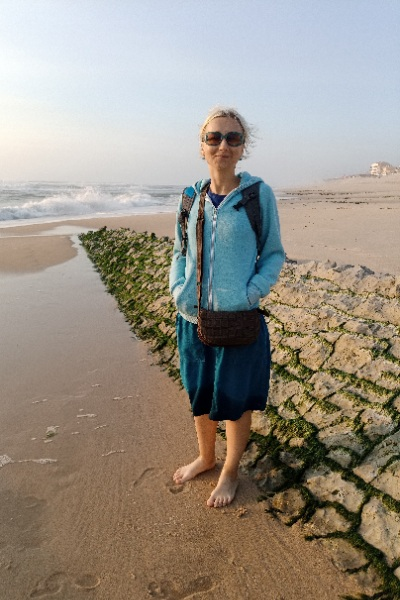
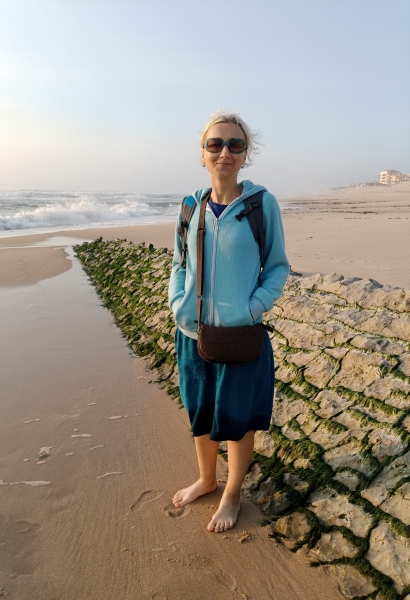
personalization aboutme photo & main color

diff --git a/index.html b/index.html
@@ -157,8 +157,7 @@
                     <div class="title title_fz36 about__subtitle">My name is Olena</div>
                     <div class="divider"></div>
                     <p class="about__text">I'm a motivated and detail-oriented aspiring front-end / full-stack developer seeking an internship or entry-level position to
-                    gain hands-on experience in real-world development environments.<br><br>
-                    Eager to contribute reliability, strong learning ability, and growing technical skills while building a solid foundation in software development.</p>
+                    gain hands-on experience in real-world development environments.</p>
                 </div>
                 <div class="about__skills">
                     <div class="about__skills-item">
@@ -169,12 +168,12 @@
                             <div class="title title_fz14">Front-End & Web Development</div>
                             <div class="about__skills-text">
                                 <ul>
-                                    <li>Building responsive and adaptive web layouts</li>
+                                    <li>Responsive and adaptive web layouts</li>
                                     <li>CSS Flexbox, CSS Grid</li>
                                     <li>CSS methodologies (BEM, Atomic Design principles)</li>
                                     <li>Basic JavaScript for interactivity</li>
-                                    <li>Working with SVG and web graphics</li>
-                                    <li>Understanding of multi-page websites and CMS integration principles</li>
+                                    <li>SVG and web graphics</li>
+                                    <li>Multi-page websites and CMS integration principles</li>
                                     <li>Website performance basics and W3C validation practices</li>
                                     <li>Accessibility fundamentals (a11y)</li>
                                 </ul>
@@ -190,9 +189,9 @@
                             <div class="about__skills-text">
                                 <ul>
                                     <li>HTML, CSS, JavaScript (practical foundation)</li>
-                                    <li>C/C++, Python, Java (basic knowledge)</li>
+                                    <li>C/C++, Python, Java (basics)</li>
                                     <li>Git & GitHub (version control, basic workflows)</li>
-                                    <li>Figma, Zeplin (working with design mockups)</li>
+                                    <li>Figma, Zeplin (design mockups)</li>
                                     <li>Vite (basic workflow automation)</li>
                                     <li>Command line basics</li>
                                     <li>SQL (fundamentals)</li>
@@ -210,7 +209,7 @@
                                 <ul>
                                     <li>Consistent and motivated learner</li>
                                     <li>Attention to detail</li>
-                                    <li>Clear and effective communication</li>
+                                    <li>Clear communication</li>
                                     <li>Discipline and responsibility</li>
                                     <li>Ability to work both independently and in a team</li>
                                 </ul>
@@ -225,9 +224,9 @@
                             <div class="title title_fz14">Languages</div>
                             <div class="about__skills-text">
                                 <ul>
-                                    <li>Ukrainian, Russian — Native</li>
-                                    <li>English — Fluent</li>
-                                    <li>Portuguese — B1 (Independent user)</li>
+                                    <li>Ukrainian, Russian — native</li>
+                                    <li>English — fluent</li>
+                                    <li>Portuguese — B1 (independent user)</li>
                                 </ul>
                             </div>
                         </div>

diff --git a/src/sass/blocks/about.scss b/src/sass/blocks/about.scss
@@ -6,8 +6,10 @@
     &__wrapper {
         display: grid;
         grid-template-columns: 400px 670px;
-        grid-template-rows: minmax(245px, auto) minmax(255px, auto);
-        grid-auto-rows: minmax(245px, auto);
+        // grid-template-rows: minmax(245px, auto) minmax(255px, auto);
+        grid-template-rows: minmax(200px, auto) minmax(255px, auto);
+        // grid-auto-rows: minmax(245px, auto);
+        grid-auto-rows: minmax(200px, auto);
         column-gap: 70px;
         row-gap: 20px;
     }
@@ -44,7 +46,8 @@
 
     &__skills {
         display: grid;
-        grid-template: repeat(2, minmax(115px, auto)) / repeat(2, 260px);
+        // grid-template: repeat(2, minmax(115px, auto)) / repeat(2, 260px);
+        grid-template: repeat(2, minmax(115px, auto)) / repeat(2, minmax(260px, auto));
         grid-auto-rows: 1fr;
         column-gap: 50px;
         row-gap: 20px;

diff --git a/src/sass/blocks/contacts.scss b/src/sass/blocks/contacts.scss
@@ -111,15 +111,19 @@
     }
 
     &__btn {
-        border: none;
+        // border: none;
+        border: solid $main-color 2px;
         font-weight: bold;
         font-size: 14px;
-        line-height: 21px;
+        line-height: 14px;
 
         &:hover {
-            color: #000;
+            // color: #000;
+            color: $main-color-dark;
+            background-color: transparent;
+            border: solid $main-color-dark 2px;
             text-decoration: none;
-            box-shadow: 2px 8px 8px 0 rgba(0, 0, 0, 0.15);
+            // box-shadow: 2px 8px 8px 0 rgba(0, 0, 0, 0.15);
         }
 
         &:active {

diff --git a/src/sass/blocks/promo.scss b/src/sass/blocks/promo.scss
@@ -31,11 +31,15 @@
         color: #000;
         font-weight: 700;
         padding: 12px 25px;
+        border: solid transparent 2px;
 
         &:hover {
-            color: #000;
+            // color: #000;
+            color: $main-color-dark;
+            background-color: transparent;
+            border: solid $main-color-dark 2px;
             text-decoration: none;
-            box-shadow: 2px 8px 8px 0 rgba(0, 0, 0, 0.15);
+            // box-shadow: 2px 8px 8px 0 rgba(0, 0, 0, 0.15);
         }
 
         &:active {

diff --git a/src/sass/blocks/button.scss b/src/sass/blocks/button.scss
@@ -1,8 +1,8 @@
 @use "/src/sass/base/variables.scss" as *;
 
 .btn {
-    height: 45px;
-    box-shadow: 0 4px 4px 0 rgba(0, 0, 0, 0.15);
+    min-height: 45px;
+    // box-shadow: 0 4px 4px 0 rgba(0, 0, 0, 0.15);
     background: $main-color;
     padding: 12px 25px;
 }

diff --git a/src/sass/base/variables.scss b/src/sass/base/variables.scss
@@ -1,2 +1,8 @@
-$main-color: #ffa501;
-$main-color-dark: #fb9301;
+// $main-color: #ffa501;
+// $main-color-dark: #fb9301;
+
+// $main-color: #e97ea6;
+// $main-color-dark: #cf488a;
+
+$main-color: #e7568c;
+$main-color-dark: #d6247c;

diff --git a/src/sass/blocks/media.scss b/src/sass/blocks/media.scss
@@ -181,6 +181,10 @@
 
         &__photo {
             grid-row: unset;
+
+            img {
+                object-position: 50% 20%;
+            }
         }
 
         &__skills {
